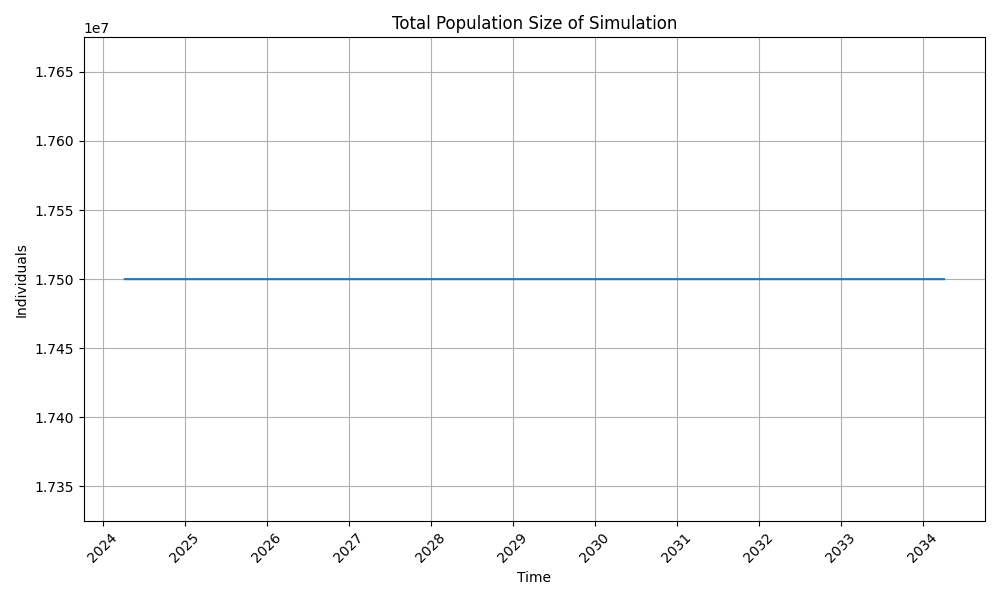
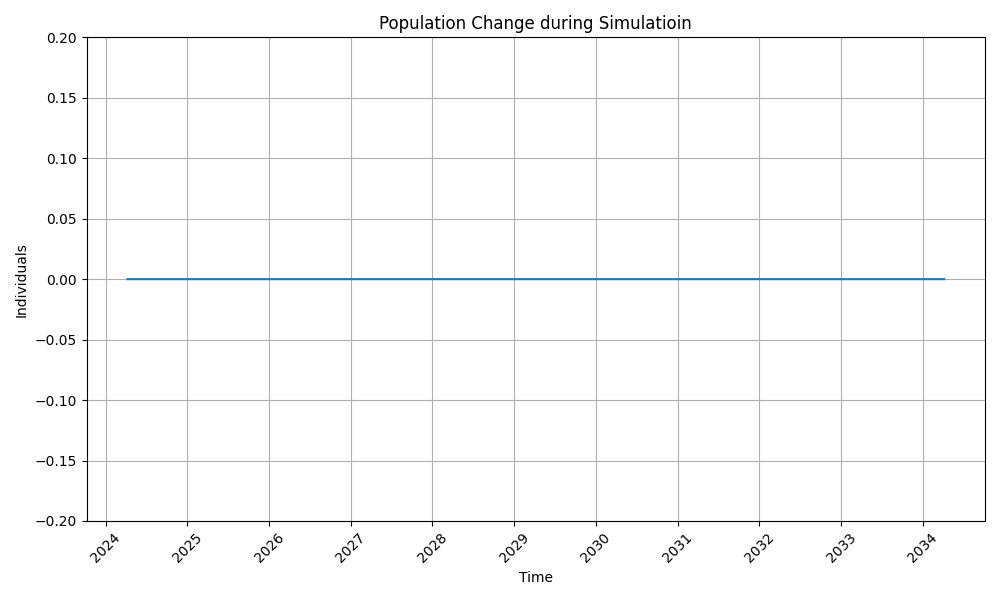
updated code for population size graph

diff --git a/forward_euler.py b/forward_euler.py
@@ -48,14 +48,15 @@ N = S + I + R
 start_date = pd.to_datetime(df[DATE_COL].iloc[0])
 # Map simulation steps to days relative to start_date
 simulation_dates = start_date + pd.to_timedelta(np.arange(len(S)) * dt, unit='D')
+N_trend = N - np.mean(N)
 
 # Print all
 # plt.figure(figsize=(10, 6))
-# plt.plot(simulation_dates, N, marker="", linestyle="-")
-# plt.title("Total Population Size of Simulation")
+# plt.plot(simulation_dates, N_trend, marker="", linestyle="-")
+# plt.title("Population Change during Simulatioin")
 # plt.xlabel("Time")
 # plt.ylabel("Individuals")
-# plt.ylim(N[0] * 0.99, N[0] * 1.01)
+# plt.ylim(-0.2, 0.2)
 # plt.xticks(rotation=45)
 # plt.tight_layout()
 # plt.grid()